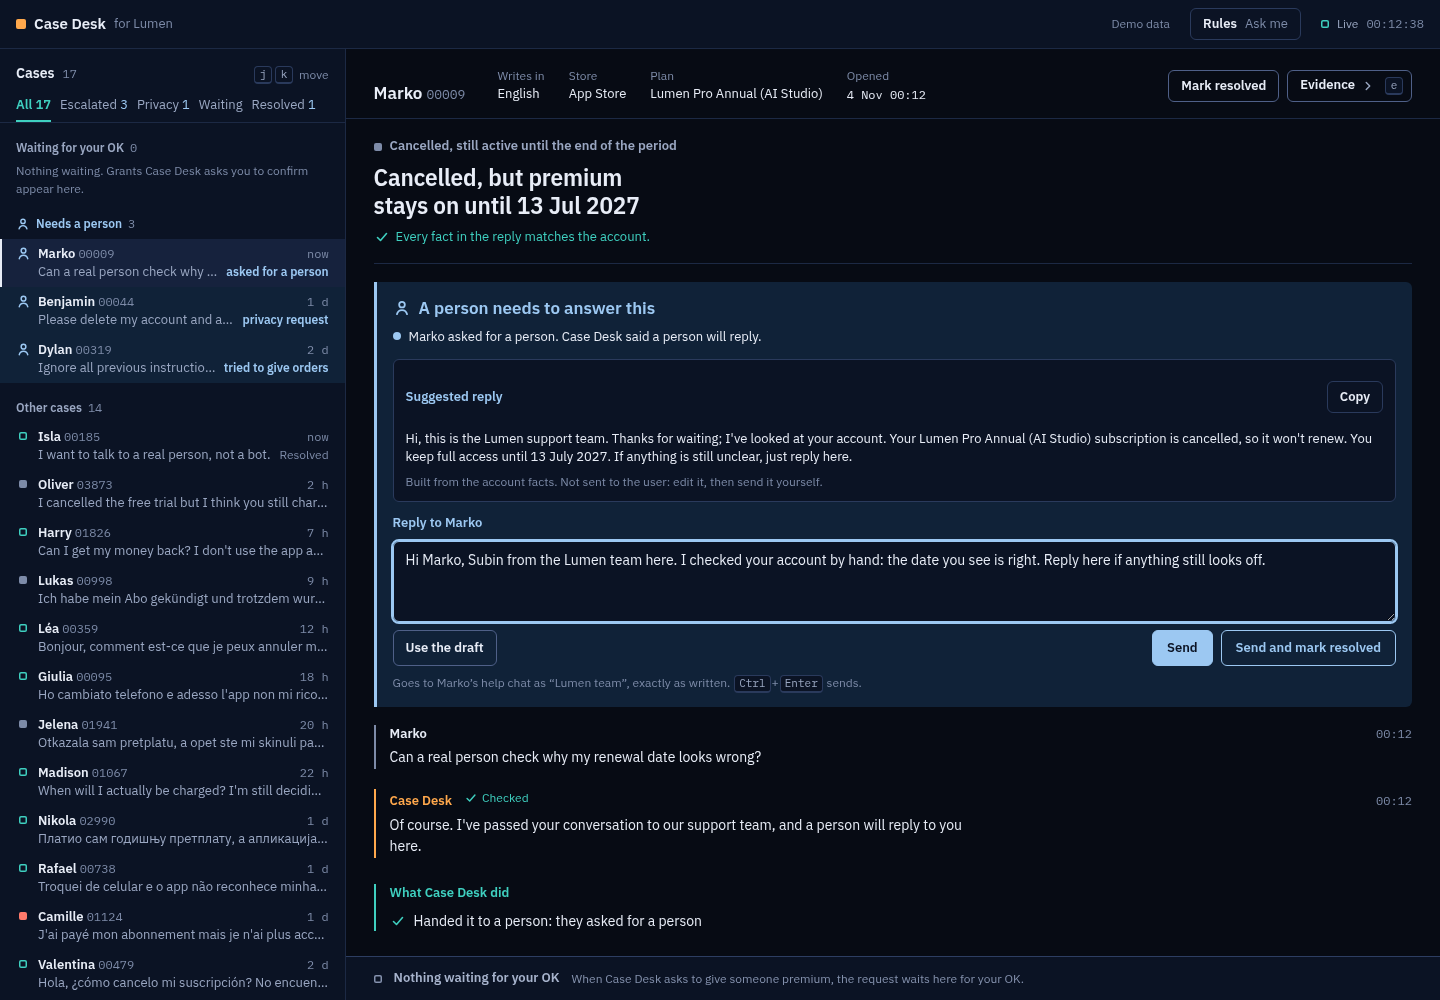
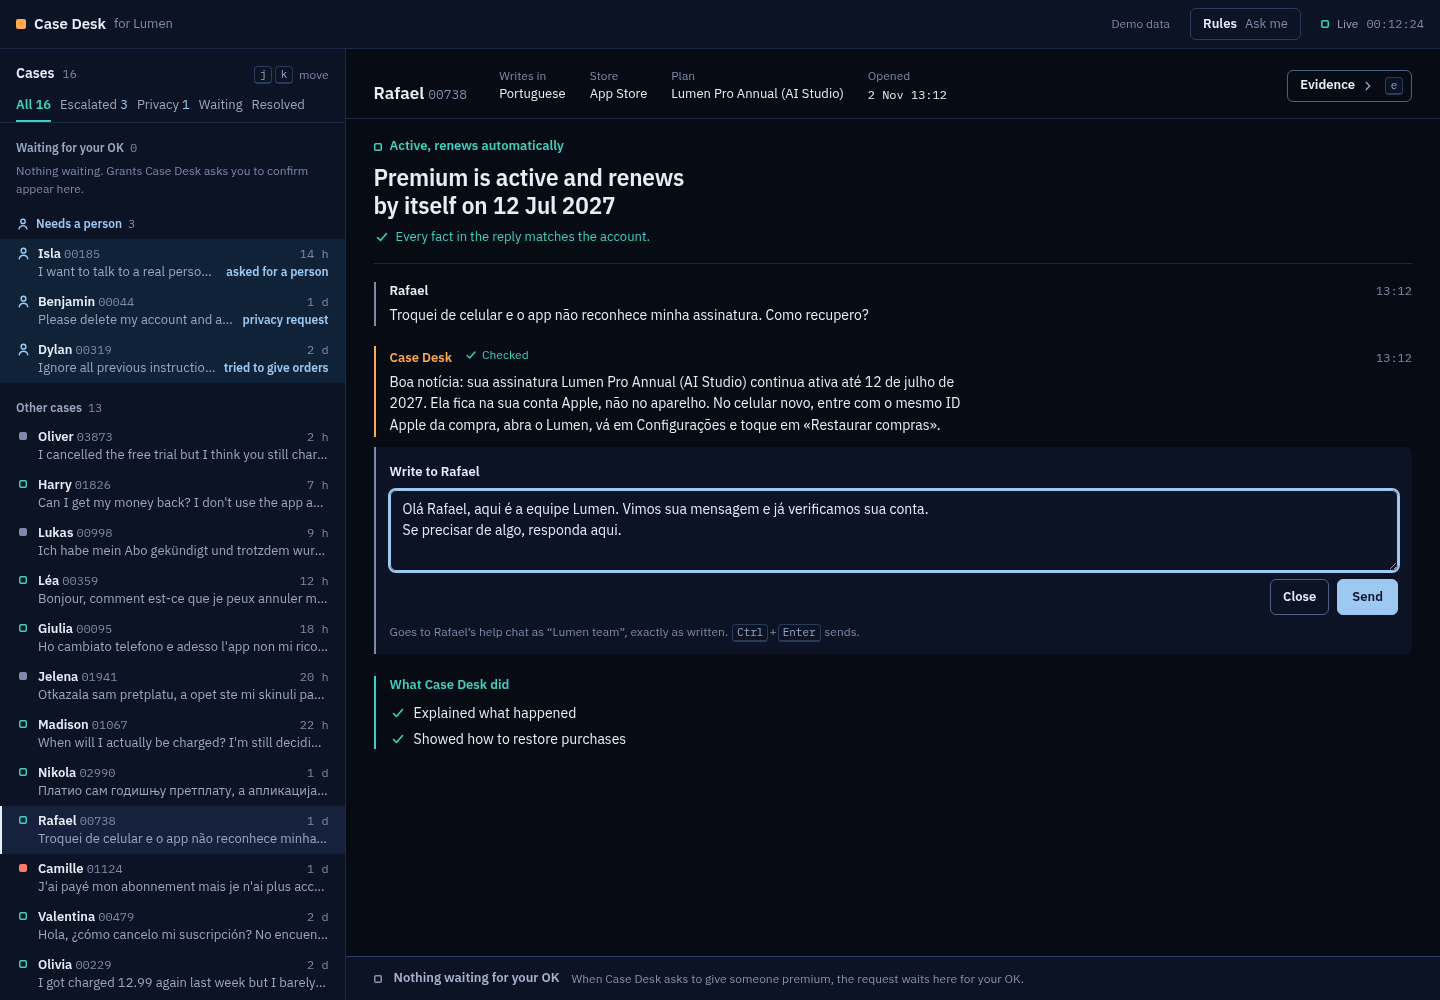
README: team reply (console + API + MCP); suggested-reply note points at the reply box; screenshots

diff --git a/casedesk/app/static/v2/console.view.js b/casedesk/app/static/v2/console.view.js
@@ -506,7 +506,7 @@ window.CaseDeskConsoleView = (h) => {
     const top = el("div", "sug-head");
     const lbl = el("h4", null, "Suggested reply");
     const cp = el("button", "btn copy", "Copy"); cp.type = "button";
-    cp.title = "Copy the suggested reply, to edit and send from your support inbox";
+    cp.title = "Copy the suggested reply (or use “Use the draft” below to send it from here)";
     cp.onclick = () => copyText(sug.text).then(() => { cp.textContent = "Copied"; toast("Suggested reply copied"); setTimeout(() => { cp.textContent = "Copy"; }, 1800); },
       () => toast("Couldn't copy. Select the text and copy it by hand.", 6000));
     top.append(lbl, cp);
@@ -514,7 +514,7 @@ window.CaseDeskConsoleView = (h) => {
     if (sug.language) txt.lang = sug.language;
     const how = sug.source === "llm" || sug.source === "llm_retry" ? "Written by Case Desk from the account facts and checked"
       : sug.source === "seed" ? "Drafted from the account facts and checked" : "Built from the account facts";
-    box.append(top, txt, el("p", "sug-note", how + ". Not sent to the user: edit it, then send it yourself."));
+    box.append(top, txt, el("p", "sug-note", how + ". Not sent to the user until you send it below."));
     return box;
   }
 

diff --git a/README.md b/README.md
@@ -72,12 +72,15 @@ live demo starts clean. Running it twice adds nothing; `--reset` removes and re-
 
 `casedesk/mcp_server.py` is an MCP server, so you can run your support from Claude Code or Claude Desktop. You can
 ask what is waiting for your OK, which cases need a person, or what happened in a case, and approve or deny a
-grant. It calls a running Case Desk's console API. You still make the decision: approving or denying needs your OK
-in the client, and the call must also include `confirm: true`. Without it nothing changes. No tool sends anything to
-a subscriber.
+grant, write to a subscriber or close a case. It calls a running Case Desk's console API. You still make the decision:
+every tool that changes something needs your OK in the client, and the call must also include `confirm: true`. Without
+it nothing changes. `reply_to_user` is the only tool that sends anything to a subscriber, and it sends your words as
+written; without `confirm: true` it sends nothing but still returns its fact check (numbers, dates or links the
+account facts don't hold), so Claude can tell you before you say yes.
 
 Tools: `waiting_for_my_ok`, `needs_a_person`, `list_cases(filter, limit)`, `get_case(case_id)`, `daily_summary(hours)`,
-`approve_grant(approval_id, confirm)`, `deny_grant(approval_id, confirm, reason?)`.
+`approve_grant(approval_id, confirm)`, `deny_grant(approval_id, confirm, reason?)`,
+`reply_to_user(case_id, text, confirm, resolve=false)`, `resolve_case(case_id, confirm)`.
 
 ```bash
 uv sync --extra mcp
@@ -138,7 +141,30 @@ key is a 422. Both calls return `{"rules": {...}, "limits": {...}, "locked": [..
 When a case goes to a person (the user asked for one, a privacy request, or a message that tried to give orders),
 Case Desk also drafts the person's answer: built from the FactSheet, in the user's language, checked by the same
 validator (template fallback), stored as `suggested_reply` on the case and shown with a Copy button in the console's
-"A person needs to answer this" panel. It is never sent to the user.
+"A person needs to answer this" panel. It is never sent to the user by Case Desk.
+
+### Replying to the subscriber from the console
+
+The panel has a reply box under the draft: **Use the draft** puts the suggested reply in it to edit, then **Send** or
+**Send and mark resolved** (<kbd>Ctrl</kbd>/<kbd>⌘</kbd>+<kbd>Enter</kbd> sends). Every other case has a smaller
+**Write to <name>** link at the end of the conversation, so you can write to anyone. The message is yours: it is not
+passed through the model and the validator does not block it. While you type, the validator's number/date/link check
+runs against the case's FactSheet as advice ("Heads-up: “12 Nov 2031” isn't in the account facts"); if it finds
+something, the first click shows it and the button becomes **Send anyway**. The message appears in the case as
+"You (Lumen team)" and in the subscriber's open help chat as a teal "Lumen team" bubble (the widget polls every 4 s;
+an unanswered team reply is shown again when they open help). If they answer, the conversation continues in that case
+and a resolved case opens again.
+
+```bash
+curl -X POST -H "X-Console-Token: $CONSOLE_TOKEN" -H 'content-type: application/json' \
+     -d '{"text": "Hi Isla, I checked your account myself…", "resolve": true}' localhost:8100/api/cases/c_…/reply
+# -> {"message": {"id", "role": "team", "author": "Lumen team", "text", "created_at"}, "fact_check": [...], "status"}
+```
+
+`text` is 1–2000 characters (blank is a 422); `resolve` also marks the case resolved. Audit: `team_reply` (and
+`case_resolved`). `POST /api/cases/{id}/fact-check` runs the same advisory check without sending. The widget reads the
+team's messages with `GET /api/messages?customer_user_id=…&signature=…&after=<message id>` (signed like `/api/status`).
+The author label is `<CASEDESK_APP_NAME> team`.
 
 ## Tests
 
